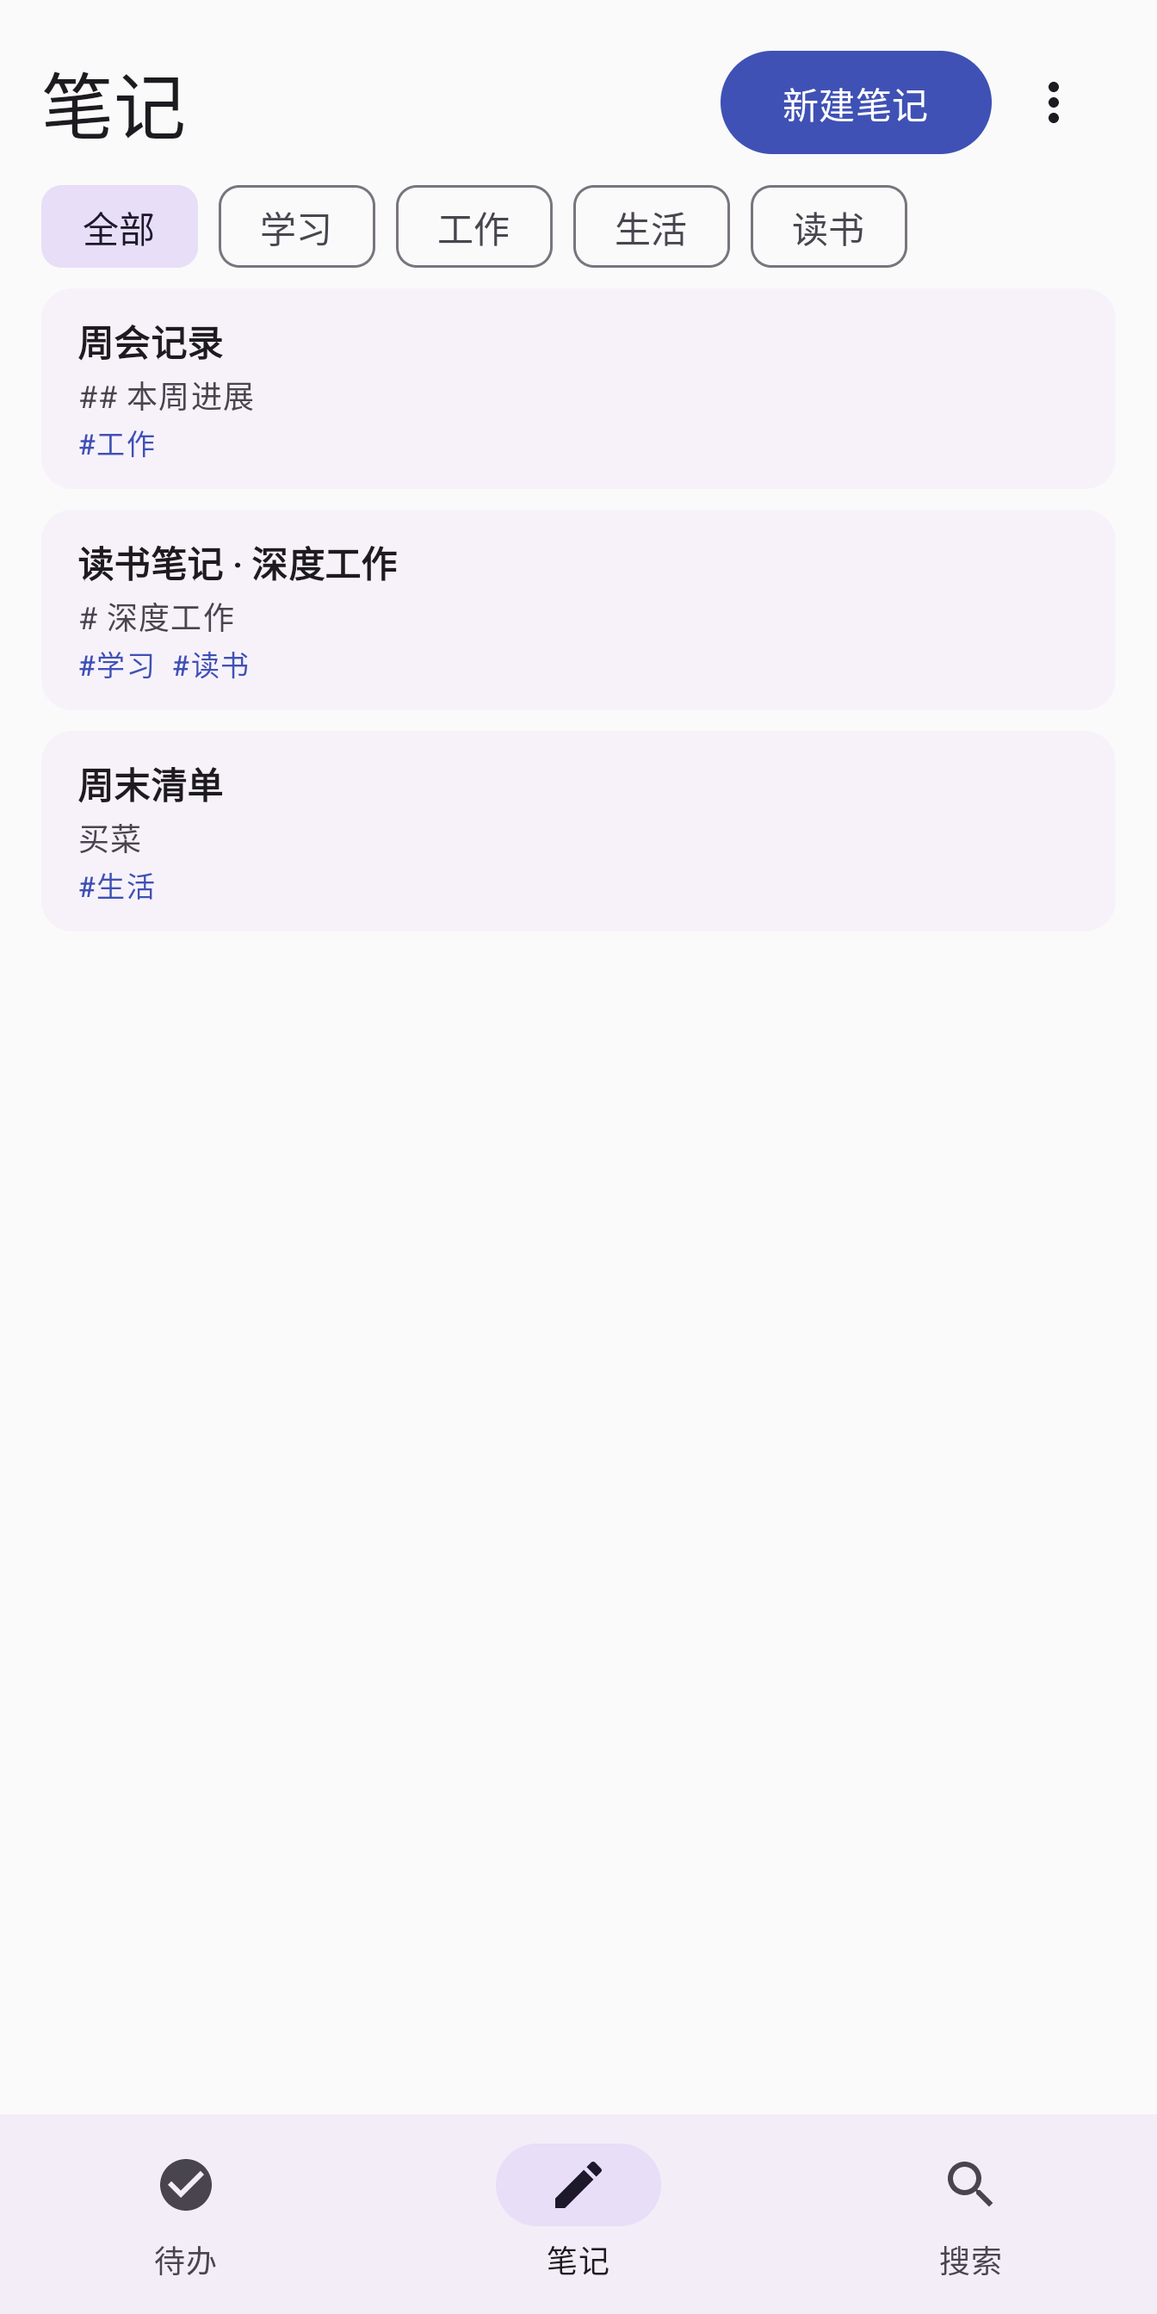
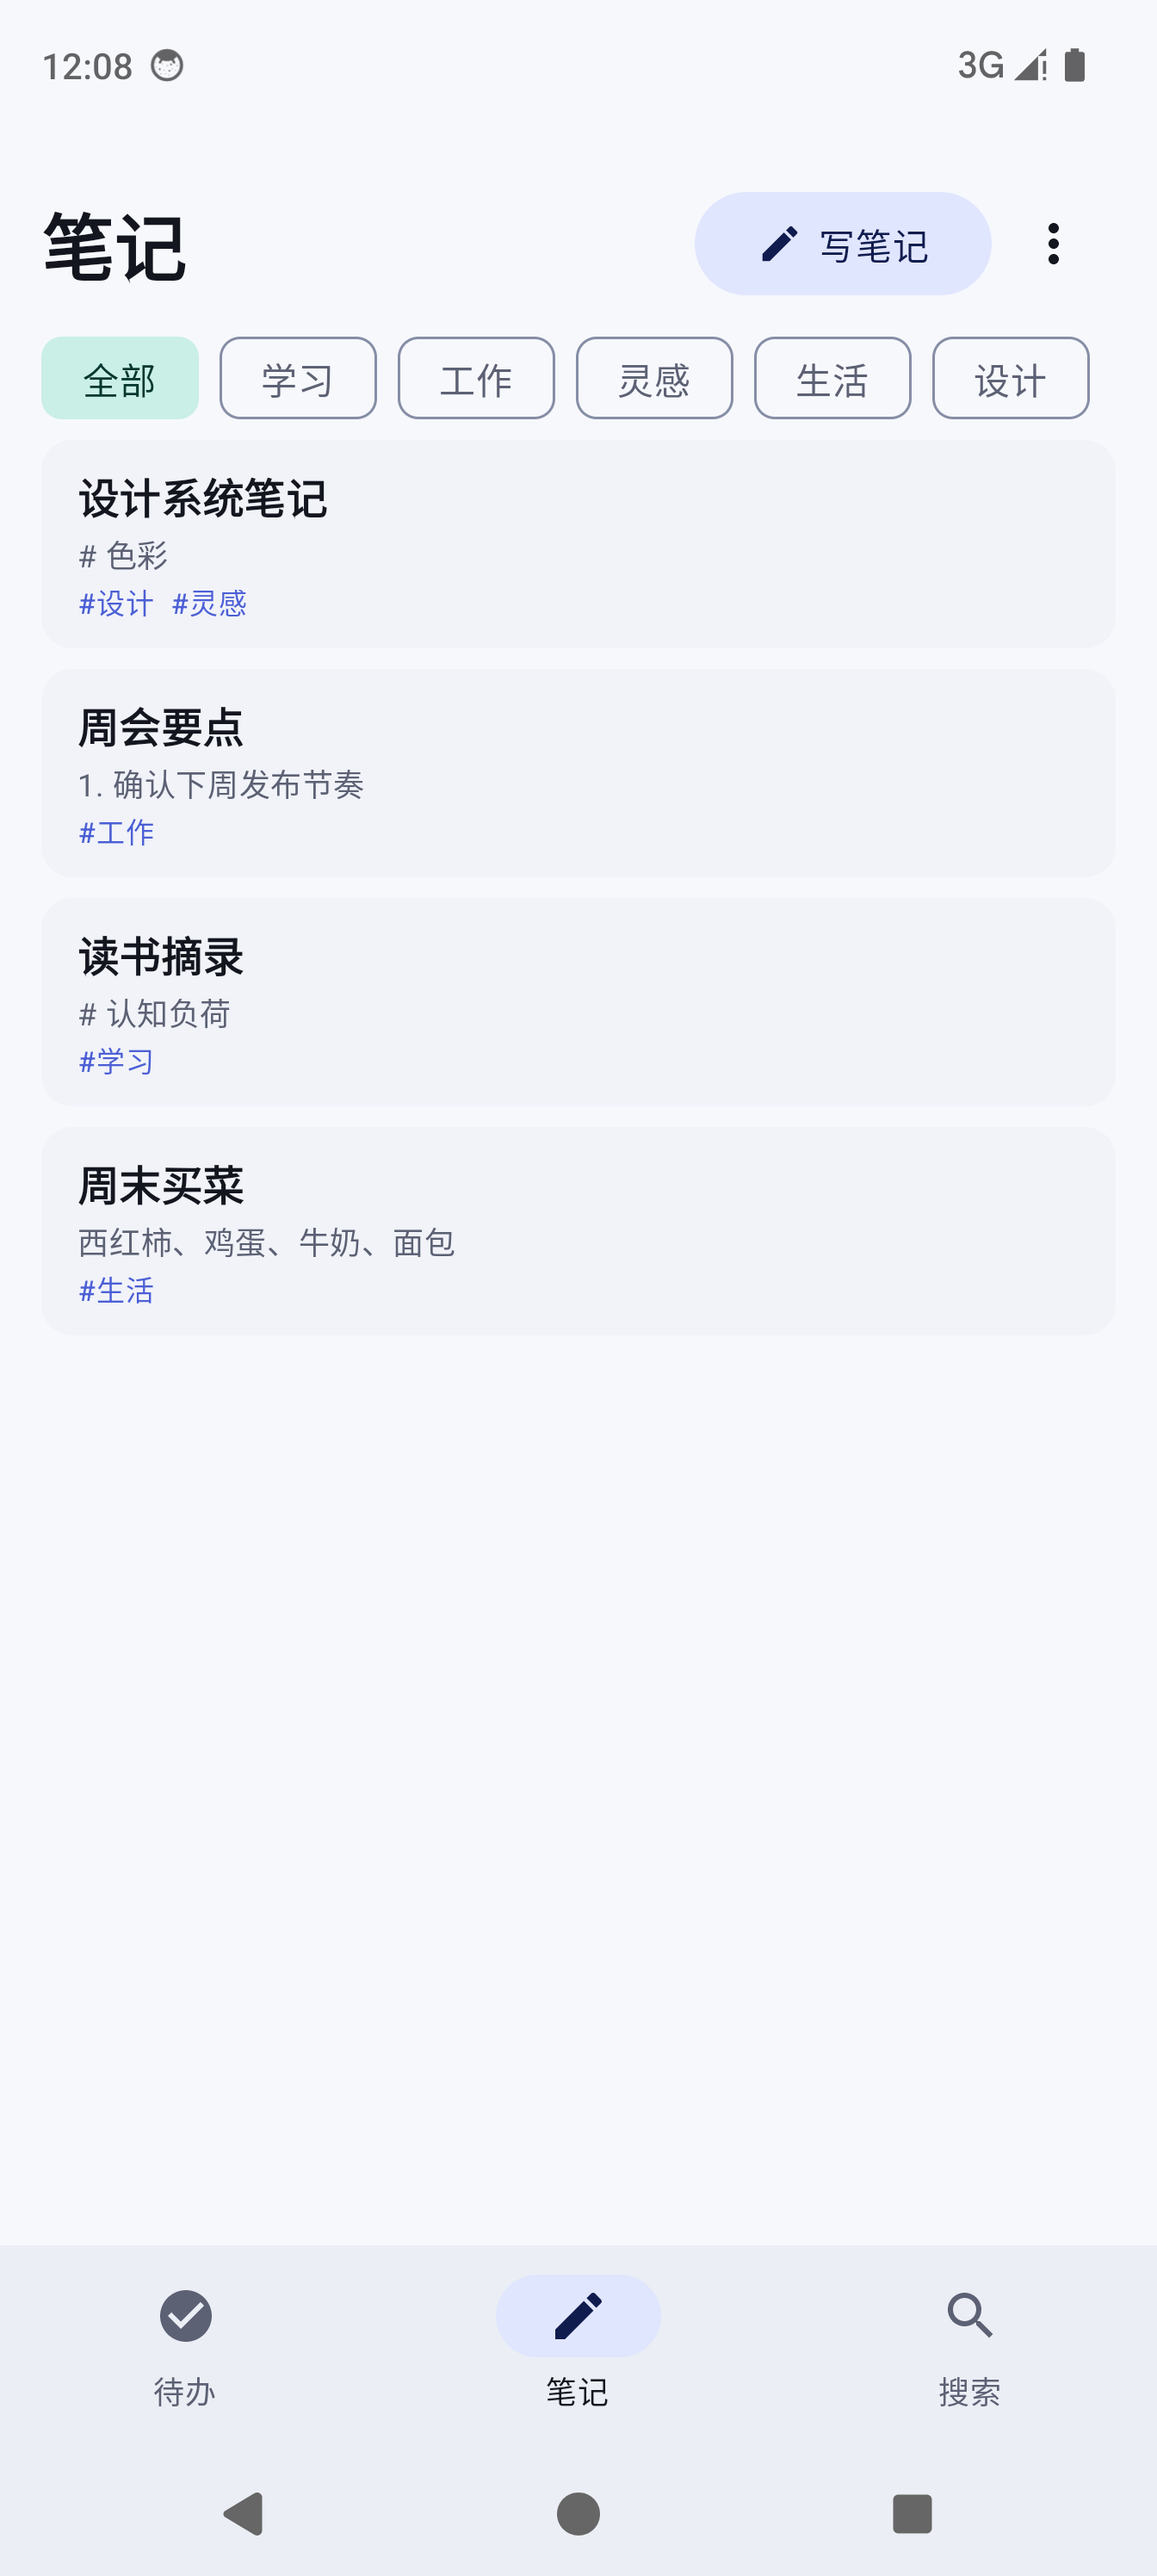
docs(assets): 更新 README 截图到 7.3 实际界面 + 修正笔记详情文案
- 六张截图重新拍摄（v6 时代的旧界面 → 当前设计系统、新编辑器、二级页页头、设置页合并后的信息架构）
- 截图用示例数据（今日三件事 / 子任务 / 分类 / Markdown 笔记 / 完成统计）
- 笔记详情「已启用排版」改为「Markdown 格式」（编辑器已无排版开关，旧文案是残留概念）
- 同步更新引用该文案的 UI 用例

diff --git a/app/src/androidTest/java/com/manst/jotlist/TodoUiTest.kt b/app/src/androidTest/java/com/manst/jotlist/TodoUiTest.kt
@@ -466,7 +466,7 @@ class TodoUiTest {
         composeRule.onAllNodesWithText("Markdown heading").assertCountEquals(0)
         composeRule.onNodeWithText(noteTitle).performClick()
 
-        composeRule.onNodeWithText("已启用排版").assertIsDisplayed()
+        composeRule.onNodeWithText("Markdown 格式").assertIsDisplayed()
         composeRule.onNodeWithText("Markdown heading").assertIsDisplayed()
         composeRule.onNodeWithText("Bold text").assertIsDisplayed()
         composeRule.onNodeWithText("• List item").assertIsDisplayed()

diff --git a/app/src/main/java/com/manst/jotlist/NotesScreen.kt b/app/src/main/java/com/manst/jotlist/NotesScreen.kt
@@ -1769,7 +1769,7 @@ internal fun NoteDetailScreen(
             }
             if (note.isMarkdown) {
                 Text(
-                    text = "已启用排版",
+                    text = "Markdown 格式",
                     style = MaterialTheme.typography.labelMedium,
                     color = MaterialTheme.colorScheme.primary
                 )
